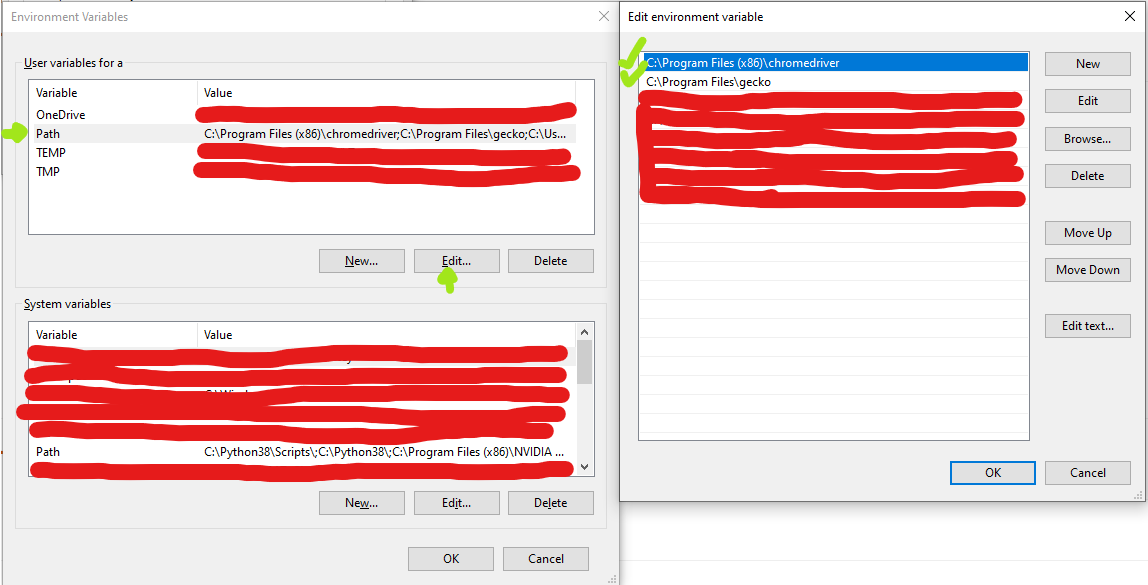
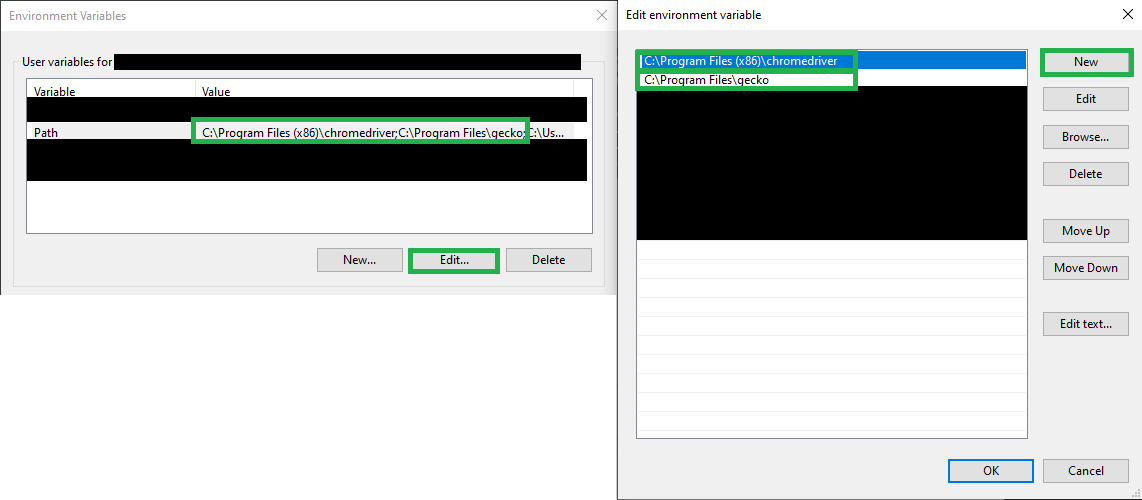
Updated readme, readme image, and config comments

diff --git a/README.md b/README.md
@@ -1,11 +1,15 @@
 # Bought
-A bot which can purchase items online, rendering them bought.
+A bot which can purchase items online, rendering them `bought`.
 
-This bot is intended to combat scalping practices.
+In principle, this bot is intended to combat scalping practices. Most bots
+are closed source and cost money; however, if everyone has access to a free
+bot, the playing field can be leveled. Additionally, `bought` is written to
+purchase at most one item -- the first product it sees available -- and never
+more.
 
 ## Installation
 Installing this bot is a multi-step process involving a Command Line
-Interface (CLI) such as Windows PowerShell, Bash, Zsh, and Fish:
+Interface (CLI) such as Windows PowerShell, Bash, or Zsh:
 1. [Download Python](#1-downloading-python)
 2. [Installing Bought](#2-installing-bought)
 3. [Download browser drivers](#3-install-webdriver)
@@ -33,13 +37,18 @@ Python:
 ```
 pip install bought
 ```
+If you need to update bought in the future, run:
+```
+pip install --upgrade bought
+```
 
 ### 3. Install Webdriver
 Vist the [selenium documentation](https://selenium-python.readthedocs.io/installation.html#drivers)
 page and download the driver for your preferred browser:
 [Firefox](https://github.com/mozilla/geckodriver/releases) | [Chrome](https://sites.google.com/a/chromium.org/chromedriver/downloads)
 
-This driver will need to be added to your PATH environment variable. You can do this on your specific OS as follows:
+This driver will need to be added to your PATH environment variable. You can
+do this on your specific OS as follows:
 
 #### Windows Path
 Press the Windows key, and type "environment":
@@ -50,31 +59,33 @@ Select the above item in the Control Panel, under the advanced tab, find
 
 ![System Properties - Advanced - Environment Variables...](./readme_source/advanced.PNG)
 
-Under User variables, select `Path`, `Edit...`, `New`, and provide the path to the driver you installed.
+Under User variables, select `Path`, `Edit...`, `New`, and provide the path
+to the FOLDER that contains the driver you downloaded.
 
 ![Environment variables](./readme_source/path.png)
 
 
 #### Linux/MacOS
-In Linux and MacOS, your corresponding shell will have its own configuration
-file (typically in your home folder). For bash and zsh, this is `~/.bashrc` and `~/.zshrc`, respectively.
+In Linux and MacOS, your corresponding CLI will have its own configuration
+file (typically in your home folder). For bash and zsh, this is `~/.bashrc`
+and `~/.zshrc`, respectively.
 
-Open the file and add the following line to the bottom:
+Open the file to configure your CLI and add the following line to the bottom:
 
 ```
 export PATH=/path/to/driver:$PATH
 ```
 
-Save and exit. You can restart the shell, or execute the source command for your corresponding configuration file:
+Save and exit. You can restart your CLI, or execute the source command for
+your corresponding configuration file:
 ```
 source ~/.bashrc
 source ~/.zshrc
-etc...
 ```
 
 ## Usage
-Bought uses Python's console scripts entry point. This allows you to use
-the `bought` command from your CLI:
+Bought uses Python's console scripts entry point. This allows you to use the
+`bought` command from your CLI:
 
 ```
 bought --help
@@ -82,11 +93,32 @@ bought --help
 
 This will display a list of subcommands and flags that can be used to
 configure bought and run it from the command line; however, it is highly
-recommended to use Bought with a config file:
+recommended to use Bought with a
+config file. A [template configuration file](https://github.com/boughts/bought/blob/main/config.ini)
+file is provided in this repository. Download this file and modify the parameters.
 
+You can then run bought as follows:
+
+#### Windows
 ```
-bought -c config.ini
+bought -c DriveLetter:\path\to\config.ini
 ```
+For example, substituting `DriveLetter:\` (e.g. `C:\`) and `path\to\` (e.g.
+`Users\MyUsername\Downloads\`):
+```
+bought -c C:\Users\MyUsername\Documents\config.ini
+```
+
+#### Linux/OSX
+bought -c /path/to/config.ini
+For example, substituting `DriveLetter:\` (e.g. `C:\`) and `path\to\` (e.g.
+`Users\MyUsername\Downloads\`):
+```
+bought -c /home/MyUsername/Documents/config.ini
+```
+
+If your CLI's current working directory is in the same location, you can use
+a relative path to your configuration file (i.e. `bought -c config.ini`).
 
 The config.ini file can be specified in any directory. A sample one is
 provided in this repository with descriptive comments about their usage.
